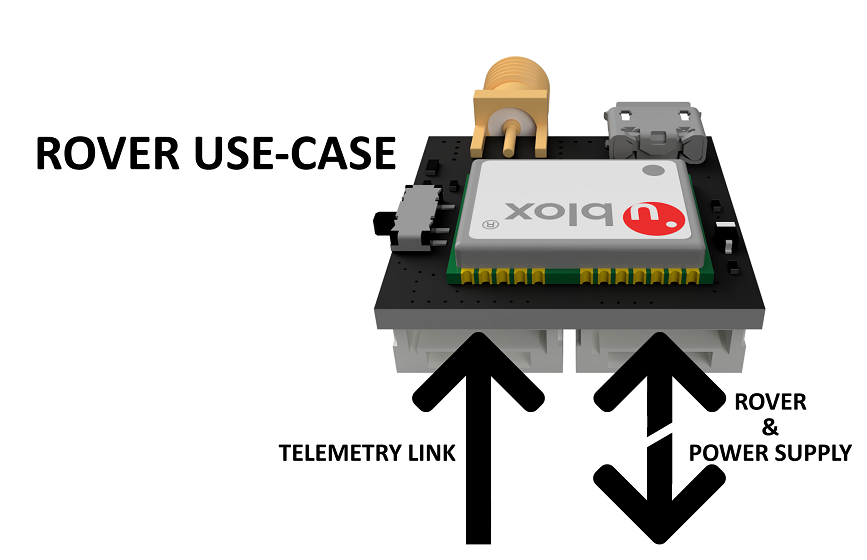
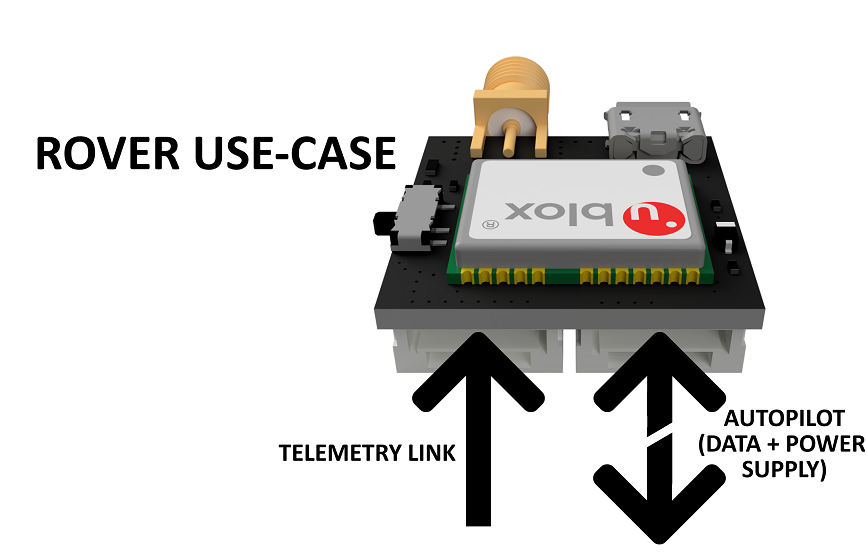
schema almost ok

Changed region(s): [[0.7785, 0.6982, 0.9965, 0.85], [0.5294, 0.9411, 0.5917, 0.9714]]

diff --git a/rtkmodules/schematics.md b/rtkmodules/schematics.md
@@ -10,4 +10,20 @@
 
 ##XL RTK Module
 
-_To be finished..._
+Switch position : 
+* _Base_ use-case : **TELEM**
+* _Rover_ use-case : **ROVER**
+
+<p align="center">
+  <img src="./images/schemaXL1.png?raw=true" alt="Wiring XL"/>
+</p>
+
+<p align="center">
+  <img src="./images/schemaXL2.png?raw=true" alt="Wiring XL"/>
+</p>
+
+##Base RTK Module
+
+<p align="center">
+  <img src="./images/schemaBase.png?raw=true" alt="Wiring Base"/>
+</p>

diff --git a/SUMMARY.md b/SUMMARY.md
@@ -14,7 +14,7 @@
 * [The Rover](rover.md)
   * [Chosing a rover module](rover/chose.md)
   * [Auto conf (QGControl / MP)](rover/autoconf.md)
-  * [Configuring the rover](rover/configure.md)
+  * [Configuring the rover manually](rover/configure.md)
 * [The Telemetry system](telemetry.md)
   * [Chosing a telemetry system](telemetry/chose.md)
   * [Simplified schematics](telemetry/schema.md)
